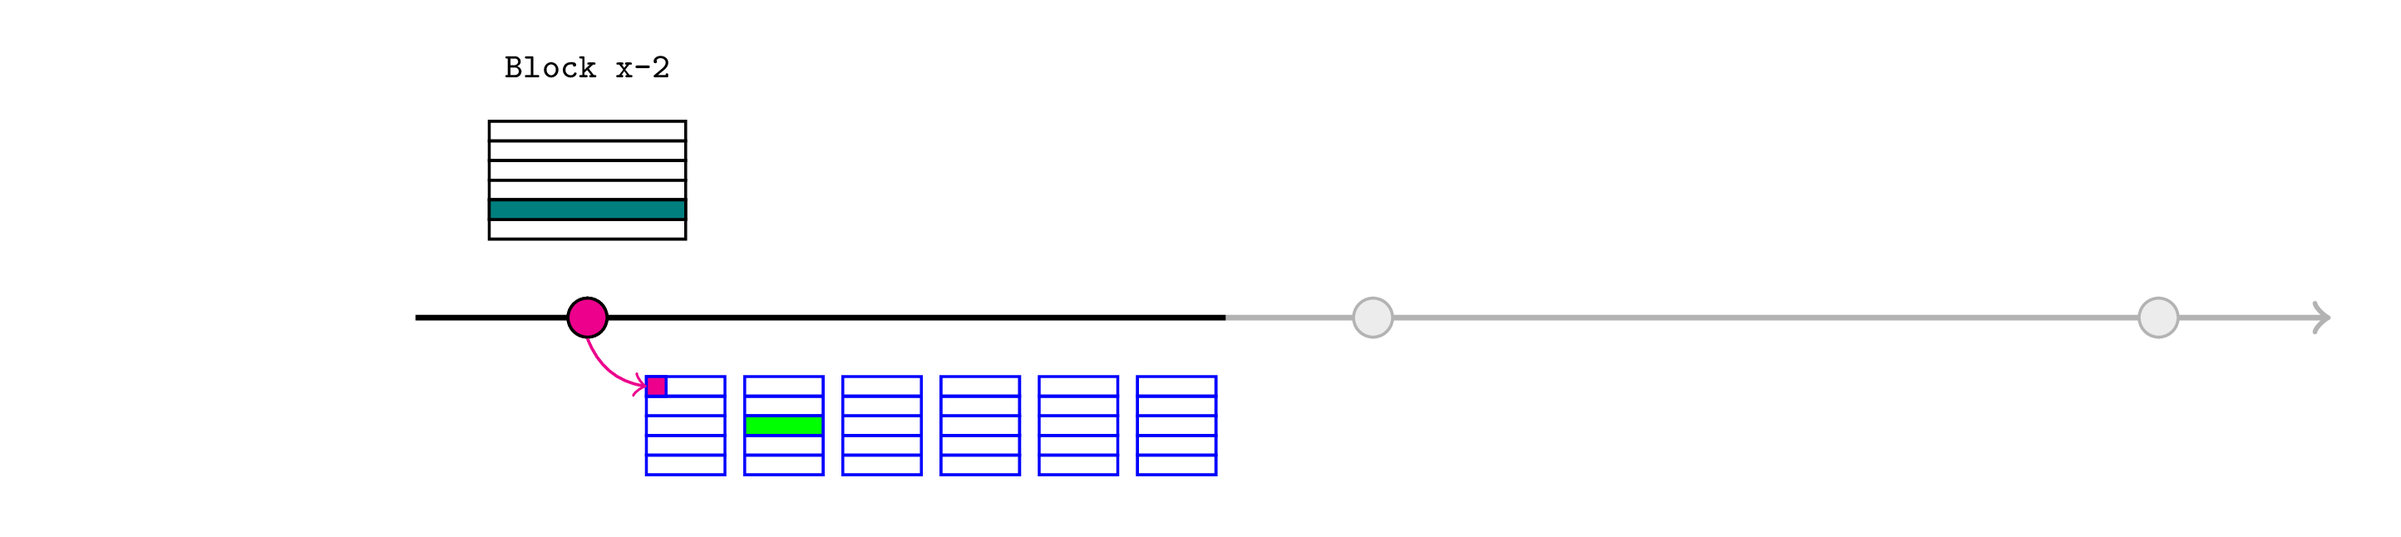
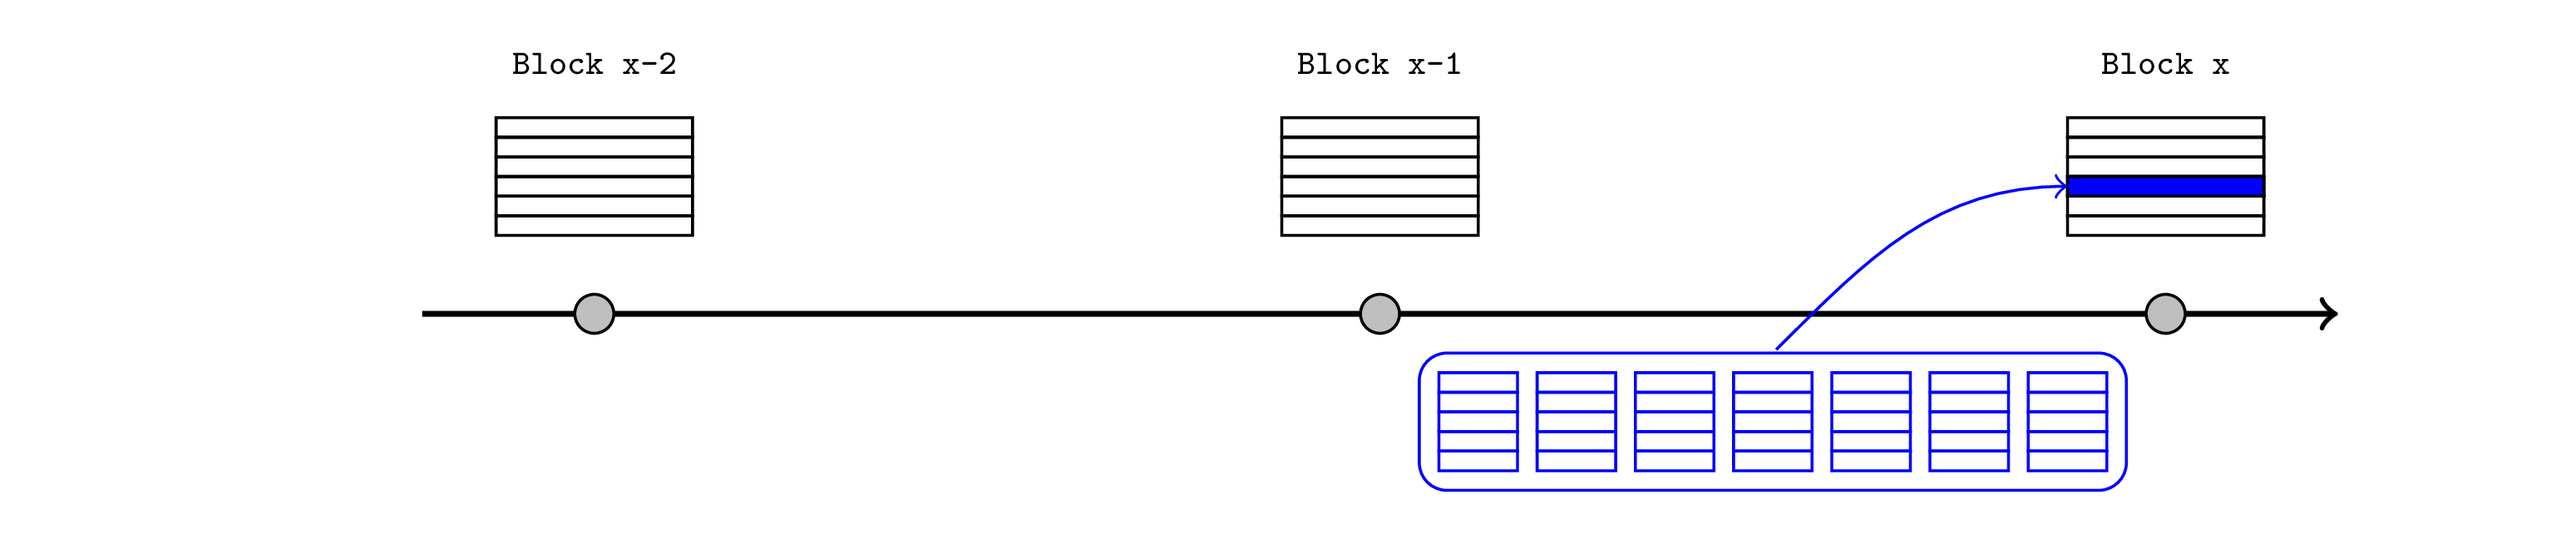
Create example walkthrough

diff --git a/documentation/provable_assertion_images.tex b/documentation/provable_assertion_images.tex
@@ -10,42 +10,13 @@
 \tikzstyle{lTwoTx} = [rectangle, \rollupColor, minimum width=0.4cm, minimum height = 0.1cm, inner sep=0, outer sep=0]
 \tikzstyle{background rectangle} = [fill=white]
 
-
-\newcommand{\timeline}{
-    \node (t0) at (0,0) {};
-    \node (tEnd) at (10,0) {};
-    \draw (t0) [->, thick]  -- (tEnd);
-    \foreach \idx in {0,...,2}{
-        \node (lOneBlock\idx) [lOneBlock] at (1 + \idx * 4, 0) {};
-    };
-}
-
-\newcommand{\lOneTransactions}{
-    \foreach \blockIdx in {0,...,2}{
-        \node (txPos) at (0, 1) {};
-        \foreach \txIdx in {0,...,5} {
-            \node[draw, lOneTx, anchor=north] (tx-\blockIdx-\txIdx) at (lOneBlock\blockIdx |- txPos) {};
-            \node (txPos) at (tx-\blockIdx-\txIdx.south) {};
-        }
-    };
-    \node[yshift=0.1cm, anchor=south] at (tx-0-0.north) {\tiny \texttt{Block x-2}};
-    \node[yshift=0.1cm, anchor=south] at (tx-1-0.north) {\tiny \texttt{Block x-1}};
-    \node[yshift=0.1cm, anchor=south] at (tx-2-0.north) {\tiny \texttt{Block x}};
-}
-
 \begin{document}
 
-% Introduce L1 chain
-\ifnum \sourceNo = 0
-\begin{tikzpicture}[framed]
-    \timeline
-    \lOneTransactions
-\end{tikzpicture}
-\fi
 
 % Instead of passing parameters to the diagram commands, define them as variables
 % This makes it easier to reuse variables between different diagrams and also makes the diagram commands more readable
 \newcommand{\anchorBlockNum}{1}
+\newcommand{\numLOneBlocks}{2}
 \newcommand{\numLTwoBlocks}{6}
 \newcommand{\rollupName}{A}
 \newcommand{\rollupColor}{blue}
@@ -53,6 +24,29 @@
 \newcommand{\pubTx}{tx-2-3}
 \newcommand{\anchorBlock}{lOneBlock\anchorBlockNum}
 \newcommand{\anchorColor}{magenta}
+\newcommand{\blockNumbers}{0/Block x-2, 1/Block x-1, 2/Block x}
+
+\newcommand{\timeline}{
+    \node (t0) at (0,0) {};
+    \node (tEnd) at (10,0) {};
+    \draw (t0) [->, thick]  -- (tEnd);
+    \foreach \idx in {0,...,\numLOneBlocks}{
+        \node (lOneBlock\idx) [lOneBlock] at (1 + \idx * 4, 0) {};
+    };
+}
+
+\newcommand{\lOneTransactions}{
+    \foreach \blockIdx in {0,...,\numLOneBlocks}{
+        \node (txPos) at (0, 1) {};
+        \foreach \txIdx in {0,...,5} {
+            \node[draw, lOneTx, anchor=north] (tx-\blockIdx-\txIdx) at (lOneBlock\blockIdx |- txPos) {};
+            \node (txPos) at (tx-\blockIdx-\txIdx.south) {};
+        }
+    };
+    \foreach \block\name in \blockNumbers {
+        \node[yshift=0.1cm, anchor=south] at (tx-\block-0.north) {\tiny \texttt{\name}};
+    }
+}
 
 
 \newcommand{\lTwoTransactions}{
@@ -82,6 +76,14 @@
     \draw[inner sep=0, outer sep=0, ->, \rollupColor] (top) to[in=180] (\pubTx.west);
 }
 \newcommand{\publication}{\partialPublication{0}{\numLTwoBlocks}}
+
+% Introduce L1 chain
+\ifnum \sourceNo = 0
+\begin{tikzpicture}[framed]
+    \timeline
+    \lOneTransactions
+\end{tikzpicture}
+\fi
 
 % Introduce L2 chain
 \ifnum \sourceNo = 1
@@ -296,6 +298,159 @@
     \node[draw, lTwoTx, fill=gray] (finalBlock) at (l2Tx-A-\numLTwoBlocks-4) {};
     \publication
 
+    \newcommand{\artifactColor}{orange}
+    \node[draw, lTwoTx, fill=\artifactColor, minimum width=0.1cm, anchor=west] (injected) at (finalBlock.west) {};
+    \node[draw, lOneTx, fill=\artifactColor, minimum width=0.1cm, anchor=east] (computed) at (\pubTx.east) {};
+    \draw[->, \artifactColor] (computed) to[out=270, in=90] (injected);
+\end{tikzpicture}
+\fi
+
+\renewcommand{\blockNumbers}{0/Block 98, 1/Block 99, 2/Block 100}
+
+% RealtimeL1State walkthrough (Context)
+\ifnum \sourceNo = 12
+\begin{tikzpicture}[framed]
+    \timeline
+
+    \snapshotAt{1.5}
+    \lOneTransactions
+    \node[draw, lOneTx, fill=violet] at (tx-0-2) {};
+\end{tikzpicture}
+\fi
+
+% RealtimeL1State walkthrough (Step 1)
+\ifnum \sourceNo = 13
+\begin{tikzpicture}[framed]
+    \timeline
+
+    \snapshotAt{1.75}
+    \lOneTransactions
+    \lTwoTransactions
+    \injectAnchor
+    \node[draw, lOneTx, fill=violet] at (tx-0-2) {};
+\end{tikzpicture}
+\fi
+
+% RealtimeL1State walkthrough (Step 2)
+\ifnum \sourceNo = 14
+\begin{tikzpicture}[framed]
+    \timeline
+
+    \snapshotAt{4.25}
+    \lOneTransactions
+    \lTwoTransactions
+    \injectAnchor
+    
+    \node[draw, lOneTx, fill=violet] at (tx-0-2) {};
+    \node[draw, lTwoTx, fill=cyan] at (l2Tx-A-0-2) {};
+\end{tikzpicture}
+\fi
+
+% RealtimeL1State walkthrough (Step 3)
+\ifnum \sourceNo = 15
+\begin{tikzpicture}[framed]
+    \timeline
+
+    \snapshotAt{5.75}
+    \lOneTransactions
+    \renewcommand{\numLTwoBlocks}{7}
+    \lTwoTransactions
+    % \publication
+    \injectAnchor
+   
+    \node[draw, lOneTx, fill=violet] at (tx-0-2) {};
+    \node[draw, lTwoTx, fill=cyan] at (l2Tx-A-0-2) {};
+    \node[draw, lOneTx, fill=teal] at (tx-1-4) {};
+\end{tikzpicture}
+\fi
+
+% RealtimeL1State walkthrough (Step 4)
+\ifnum \sourceNo = 16
+\begin{tikzpicture}[framed]
+    \timeline
+
+    \snapshotAt{5.75}
+    \lOneTransactions
+    \lTwoTransactions
+    \injectAnchor
+
+    \renewcommand{\anchorBlockNum}{1}
+    \renewcommand{\anchorColor}{brown}
+    \injectAnchorToBlock{8}
+    
+    \node[draw, lOneTx, fill=violet] at (tx-0-2) {};
+    \node[draw, lTwoTx, fill=cyan] at (l2Tx-A-0-2) {};
+    \node[draw, lOneTx, fill=teal] at (tx-1-4) {};
+\end{tikzpicture}
+\fi
+
+% RealtimeL1State walkthrough (Step 5)
+\ifnum \sourceNo = 17
+\begin{tikzpicture}[framed]
+    \timeline
+
+    \snapshotAt{7.75}
+    \lOneTransactions
+    \lTwoTransactions
+    \injectAnchor
+
+    \renewcommand{\anchorBlockNum}{1}
+    \renewcommand{\anchorColor}{brown}
+    \injectAnchorToBlock{8}
+    
+    \node[draw, lOneTx, fill=violet] at (tx-0-2) {};
+    \node[draw, lTwoTx, fill=cyan] at (l2Tx-A-0-2) {};
+    \node[draw, lOneTx, fill=teal] at (tx-1-4) {};
+\end{tikzpicture}
+\fi
+
+% RealtimeL1State walkthrough (Step 7)
+\ifnum \sourceNo = 18
+\begin{tikzpicture}[framed]
+    \timeline
+
+    \renewcommand{\numLOneBlocks}{1}
+    \renewcommand{\blockNumbers}{0/98, 1/99}
+    \snapshotAt{8.75}
+    \lOneTransactions
+    \lTwoTransactions
+    % \publication
+    \injectAnchor
+
+    \renewcommand{\anchorBlockNum}{1}
+    \renewcommand{\anchorColor}{brown}
+    \injectAnchorToBlock{8}
+    
+    \node[draw, lOneTx, fill=violet] at (tx-0-2) {};
+    \node[draw, lTwoTx, fill=cyan] at (l2Tx-A-0-2) {};
+    \node[draw, lOneTx, fill=teal] at (tx-1-4) {};
+
+    \node[draw, lTwoTx, fill=gray] (finalBlock) at (l2Tx-A-\numLTwoBlocks-4) {};
+    \newcommand{\artifactColor}{orange}
+    \node[draw, lTwoTx, fill=\artifactColor, minimum width=0.1cm, anchor=west] (injected) at (finalBlock.west) {};
+    % \node[draw, lOneTx, fill=\artifactColor, minimum width=0.1cm, anchor=east] (computed) at (\pubTx.east) {};
+    % \draw[->, \artifactColor] (computed) to[out=270, in=90] (injected);
+\end{tikzpicture}
+\fi
+
+% RealtimeL1State walkthrough (Step 8)
+\ifnum \sourceNo = 19
+\begin{tikzpicture}[framed]
+    \timeline
+    \lOneTransactions
+    \lTwoTransactions
+    \publication
+    \injectAnchor
+
+    \renewcommand{\anchorBlockNum}{1}
+    \renewcommand{\anchorColor}{brown}
+    \injectAnchorToBlock{8}
+    
+    \node[draw, lOneTx, fill=violet] at (tx-0-2) {};
+    \node[draw, lTwoTx, fill=cyan] at (l2Tx-A-0-2) {};
+    \node[draw, lOneTx, fill=teal] at (tx-1-4) {};
+
+    \node[draw, lTwoTx, fill=gray] (finalBlock) at (l2Tx-A-\numLTwoBlocks-4) {};
     \newcommand{\artifactColor}{orange}
     \node[draw, lTwoTx, fill=\artifactColor, minimum width=0.1cm, anchor=west] (injected) at (finalBlock.west) {};
     \node[draw, lOneTx, fill=\artifactColor, minimum width=0.1cm, anchor=east] (computed) at (\pubTx.east) {};

diff --git a/documentation/PreemptiveProvableAssertions.md b/documentation/PreemptiveProvableAssertions.md
@@ -15,6 +15,7 @@ This article will unpack that statement and provide some example use cases. We w
 - A mechanism for interdependent L2 transactions.
 - Mechanisms for cross-rollup assertions.
 - A suggested implementation framework.
+- An example walkthrough.
 
 ## Background
 
@@ -323,17 +324,113 @@ Since the sequencer is providing an additional service for users, they would lik
 - any opportunities they may lose from constraining their options when building publications.
 - any effort it takes to validate whether they will be able to prove any assertions that the users want (eg. ensuring an L1 query will have a predictable result at publication time).
 
-As a convenience, I recommend the assertion contract to be enabled and disabled by a `pauser` address that is set by anyone when it is zero and reset to zero in the end-of-publication transaction, which allows the sequencer to set a trusted `pauser` address at the start of the publication. This is not strictly necessary because the sequencer can also refuse to include transactions that make unendorsed assertions, but it provides a mechanism for the sequencer to coordinate with users and to defer the costs. In particular, the `pauser` address could be a contract that allows assertions when the user provides enough upfront evidence and pays enough fees. For example:
+As a convenience, I recommend the assertion contract to be enabled and disabled by a `pauser` address that is set by anyone when it is zero and reset to zero in the end-of-publication transaction, which allows the sequencer to set a trusted `pauser` address at the start of the publication. This is not strictly necessary because the sequencer can also refuse to include transactions that make unendorsed assertions, but it provides a mechanism for the sequencer to coordinate with users and to defer the costs. In particular, the `pauser` address could be a contract that only allows assertions from a whitelisted set, and may require the user to provide enough upfront evidence and pay enough fees. For example:
 
 - a user that claims the block hash for L1 block _B_ is _H_ could provide the L1 header that is needed for the proof, along with enough funds to cover the `blockhash` query on L1.
 - a user that wants an assertion that some property will be true in L2 block _X_ could also sign the proof transaction that will need to be sequenced in block _X_.
 
-The sequencer is still responsible for ensuring all assertions are proven (so they should only include transactions that make valid provable assertions) but this mechanism defers much of the analysis and cost to the user. It also allows users to create the assertion and react to that assertion within the same transaction, so they remove the risk of signing transactions that might revert if the assertion is not made beforehand. In some sense, this makes it possible for users to create transcript-level (rather than EVM-level) conditions on transactions, such that the transactions can only be included in the presence of other transactions.
+The sequencer is still responsible for ensuring all assertions are proven (so they should only include transactions that make valid provable assertions) but this mechanism defers some of the analysis and cost to the user. It also allows users to create the assertion and react to that assertion within the same transaction, so they remove the risk of signing transactions that might revert if the assertion is not made beforehand. In some sense, this makes it possible for users to create transcript-level (rather than EVM-level) conditions on transactions, such that the transactions can only be included in the presence of other transactions.
+
+## Example walkthrough
+
+Let's walkthrough a possible price-feed example in detail using the [sample `PreemptiveAssertions` and `RealtimeL1State` contracts](https://github.com/OpenZeppelin/minimal-rollup/pull/78) deployed on L2.
+
+#### Context
+
+Assume there is a monopoly sequencer until L1 block 100, and the price feed has just updated (purple) in block 98. Of course, this mechanism can be naturally extended to cover several L1 blocks.
+
+<p align="center"><img src="./provable_assertion_images.12.png"/></p>
+
+#### Step 1
+
+Alice would like to inform an L2 oracle of that new price, so she retrieves the block header for L1 block 98 and calls 
+
+```solidity
+realtimeL1State.assertL1Header(98, header);
+```
+
+The sequencer should only include this transaction if it corresponds to the real header. They could also ensure that Alice pays a fee to cover the eventual `blockhash(99)` call on L1 (possibly using the `pauser` mechanism).
+
+This creates three assertions:
+
+- the blockhash of L1 block 98 is the hash of the provided `header`
+- the parent hash of L1 block 98 is the `header.parentHash` field (unused in this example)
+- the state root of block 98 is the `header.stateRoot` (pink in the diagram)
+
+<p align="center"><img src="./provable_assertion_images.13.png"/></p>
+
+#### Step 2
+
+We assume the L2 oracle trusts assertions made by the `realtimeL1State` contract (which actually implies the developers of the L2 oracle believe that the `RealtimeL1State` code correctly validates the assertion it makes). It should be designed to retrieve the latest L1 state root assertion when invoked.
+
+Alice can provide a Merkle proof to the relevant storage location against the asserted state root to prove the latest price at the end of L1 block 98 (light blue).
+
+The rest of the L2 ecosystem can proceed using this price.
+
+<p align="center"><img src="./provable_assertion_images.14.png"/></p>
+
+### Step 3
+
+The price feed updates (dark green) in block 99.
+
+<p align="center"><img src="./provable_assertion_images.15.png"/></p>
+
+### Step 4
+
+Bob would like to inform the L2 oracle of that new price, so he retrieves the block header for L1 block 99 and calls 
+
+```solidity
+realtimeL1State.assertL1Header(99, header);
+```
+
+As before, the sequencer should only include this transaction if it corresponds to the real header (and Bob has paid the required fees).
+
+This creates three more assertions:
+
+- the blockhash of L1 block 99 is the hash of the provided `header`
+- the parent hash of L1 block 99 is the `header.parentHash` field
+- the state root of block 99 is the `header.stateRoot` (brown in the diagram)
+
+<p align="center"><img src="./provable_assertion_images.16.png"/></p>
 
 
+### Step 5
 
+As before, anyone can use the asserted state root to prove the latest price at the end of L1 block 99, and the rest of the L2 ecosystem will proceed using this price.
 
+<p align="center"><img src="./provable_assertion_images.17.png"/></p>
 
+### Step 6
 
+Once the block 99 header has been asserted, the block 98 assertions are no longer necessary. At this point, anyone can remove them with the call
+
+```solidity
+realtimeL1State.resolveUsingNextAssertion(98)
+```
+
+The sequencer could design their `pauser` contract to call this at the end of Step 4 (so Bob pays for it). Alternatively, they could require Alice to sign this transaction in Step 1 (but only sequence it now) so she pays for both adding and removing the assertions.
+
+In either case, this call will
+- confirm the asserted blockhash of L1 block 98 matches the asserted parent hash of block 99 (which guarantees the block 98 assertions are implied by the block 99 assertions)
+- remove all three block 98 assertions.
+
+### Step 7
+
+The end-of-publication transaction accepts the consistency hash (orange), which is derived from (among other things) the result of `blockhash(99)` executed in the Inbox contract at publication time (block 100). The sequencer can predict this value and pass it to the end-of-publication transaction while finalising the publication.
+
+The sequencer will also specify that the `realtimeL1State` contract has unproven assertions, so the end-of-publication transaction will call `resolve` on that contract with the consistency hash (along with the block hash for L1 block 99 provided by the sequencer). This function will:
+- confirm that the passed block hash corresponds to the consistency hash (so it matches the value that will be retrieved on L1).
+- confirm that this matches the block hash that was asserted for block 99 (in Step 4).
+- remove all three block 99 assertions.
+
+The end-of-publication transaction will confirm that there are no remaining unproven assertions.
+
+<p align="center"><img src="./provable_assertion_images.18.png"/></p>
+
+### Step 8
+
+Lastly, the sequencer finalises the publication and posts it in block 100. That state-transition-function (enforced by the rollup nodes) will guarantee that the consistency hash computed in the Inbox matches the one passed to the end-of-publication transaction and that it did not revert (to ensure all assertions were proven).
+
+<p align="center"><img src="./provable_assertion_images.19.png"/></p>
 
 
